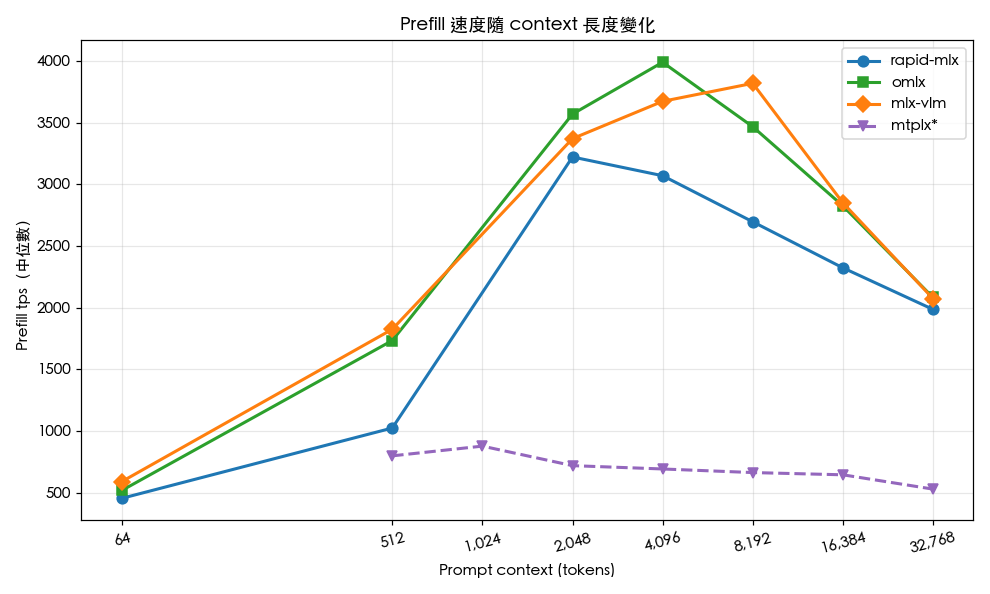
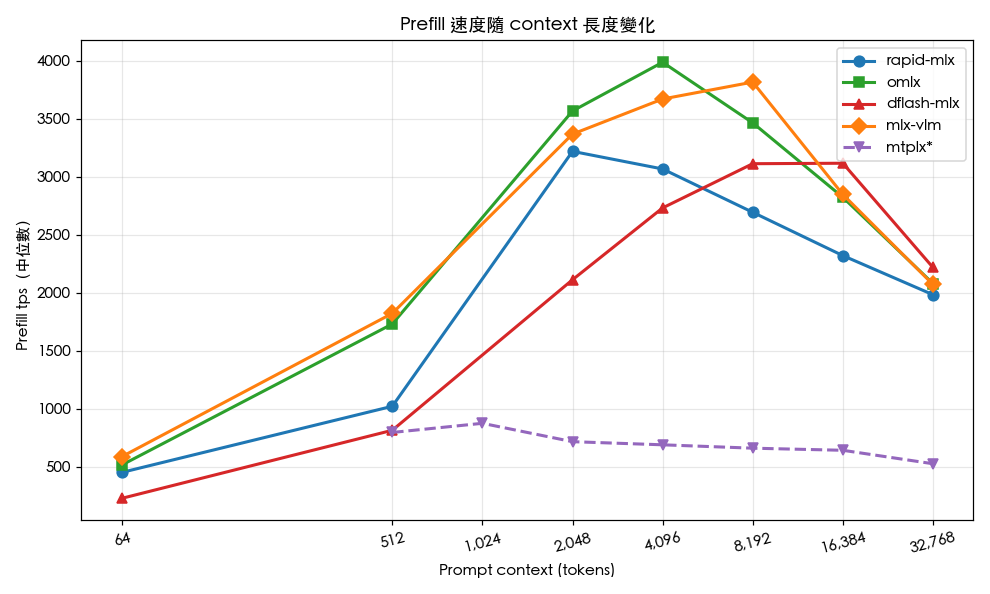
Refresh README, summary, and charts for dflash-mlx v0.1.7
Propagate the v0.1.7 re-test outcome from the dflash report into the
top-level docs and figures:

- plot_results.py: switch dflash source from v5 (v0.1.0) to v6 (v0.1.7),
  regenerate all six charts in both en/ and zh/ — the 32K cliff is gone
  from the decode and degradation plots, and dflash now appears in the
  prefill chart since v0.1.7 returns prompt_tokens
- README.md/README_zh.md: replace "catastrophic 32K crash" headline with
  v0.1.7-aware narrative; update decode tps table (dflash row now 149/140/
  154/127/122/104/90 instead of 167/123/160/105/96/84/13); update chart
  captions and recommendation sections; add note flagging the dflash row
  was re-tested separately on 2026-05-25
- 99-summary.md/_zh.md: replace "Why dflash falls apart at 32K" section
  with "The original 32K cliff and how v0.1.7 fixed it"; add cooldown=2
  vs cooldown=60 methodology lesson; update TTFT-for-RAG numbers

diff --git a/scripts/plot_results.py b/scripts/plot_results.py
@@ -30,7 +30,7 @@ DATA = ROOT / "data"
 FRAMEWORKS = [
     ("rapid-mlx", "rapid_v5.jsonl",  "#1f77b4", "o", "-"),
     ("omlx",      "omlx_v5.jsonl",   "#2ca02c", "s", "-"),
-    ("dflash-mlx","dflash_v5.jsonl", "#d62728", "^", "-"),
+    ("dflash-mlx","dflash_v6.jsonl", "#d62728", "^", "-"),
     ("mlx-vlm",   "vlm_v5.jsonl",    "#ff7f0e", "D", "-"),
     ("mtplx*",    "mtplx_v5.jsonl",  "#9467bd", "v", "--"),
 ]

diff --git a/README.md b/README.md
@@ -8,7 +8,9 @@ This repository contains the raw data, scripts, and analysis from a head-to-head
 
 A fifth framework, **mtplx**, was added in a later run against a *different* model (`Youssofal/Qwen3.6-27B-MTPLX-Optimized-Speed`, a 27B dense model purpose-built for MTPLX with speculative-decoding optimizations). Because the model differs from the four-framework comparison, mtplx is plotted with a dashed line and marked with `*` in tables — its numbers are interesting on their own merits but not directly comparable to the others. See [§4.1 mtplx (different model)](#41-mtplx-different-model) for the standalone results and methodology.
 
-The short version of the conclusion: if you mostly serve long-context workloads (RAG, document summarization, code analysis on big files), use **omlx** — it has the fastest decode speed from 4K context onward and the most stable timing of any framework tested. If your prompts are short and your output is structured or predictable, **dflash-mlx** is the fastest by a wide margin at 64–2,048 tokens because its speculative decoding hits often on those workloads. But dflash-mlx fails catastrophically at 32K, dropping to 12.6 tokens per second — roughly six times slower than the others — so you absolutely cannot use it for long-context applications. **mlx-vlm** is the only framework here that supports image, video, and audio input, but for pure text it runs about 25–30% slower than the others, so reach for it only when you actually need multimodal capability. **mtplx** running its speed-optimized 27B model decodes at 31–60 tokens per second across the ladder with steady memory growth (15.6 GB at 512 tokens, 22.1 GB at 32K), so its appeal is the predictable memory envelope rather than peak throughput.
+The short version of the conclusion: **dflash-mlx** wins decode speed at every tested context length once you're using a current build — it leads at 4K through 32K (127, 122, 104, 90 tps medians) and is competitive at short context (140–154 tps from 512 to 2K). **omlx** is the boring-but-dependable choice when stability matters more than peak — it has the gentlest decode-tps degradation curve and the lowest TTFT variance, which makes it the easiest framework to build SLAs around. **rapid-mlx** is the dependable middle option — never the leader, never far from it. **mlx-vlm** is the only framework here that supports image, video, and audio input, but for pure text it runs about 25–30% slower than the others, so reach for it only when you actually need multimodal capability. **mtplx** running its speed-optimized 27B model decodes at 31–60 tokens per second across the ladder with steady memory growth (15.6 GB at 512 tokens, 22.1 GB at 32K), so its appeal is the predictable memory envelope rather than peak throughput.
+
+> **Note on dflash-mlx numbers.** The dflash-mlx row was re-tested on 2026-05-25 against dflash-mlx **v0.1.7** after a community contributor noted that the original v0.1.0 sweep showed a since-fixed 32K collapse (12.6 tps). The numbers in the headline table below are from v0.1.7, methodology-matched to the other frameworks (`cooldown=2`, `n=5`, `max_tokens=256`, prefix cache disabled). The original v0.1.0 numbers and the full story of the regression-and-fix live in [`reports/03-dflash-mlx.md`](reports/03-dflash-mlx.md).
 
 ---
 
@@ -38,13 +40,13 @@ The benchmark client is at [`scripts/bench_inline.py`](scripts/bench_inline.py);
 
 ![Decode tps](charts/decode_tps.png)
 
-This is the headline chart. It plots median decode tokens per second against prompt context length. The picture tells the story: dflash-mlx (red) has dramatic peaks at 64 and 2,048 tokens where speculative decoding lands well, but its line cliff-dives at 32K. omlx (green) is the boring-but-effective straight line that beats everything from 4K onward. rapid-mlx (blue) starts strong at small context but degrades faster than omlx as context grows. mlx-vlm (orange) is consistently the slowest but also the flattest line. The dashed purple line is mtplx running its 27B speed-optimized model — it sits well below the four 35B-MoE frameworks because the 27B dense weights are heavier per active parameter, but the curve from 4K onward is unusually flat (43→31 tps from 4K to 32K).
+This is the headline chart. It plots median decode tokens per second against prompt context length. dflash-mlx (red, v0.1.7) leads across the entire range — its 2K peak comes from speculative decoding hitting well on natural-language summarization, and the line stays above the others all the way to 32K. omlx (green) is the boring-but-effective straight line — second-best at long context with the lowest variance. rapid-mlx (blue) starts strong at small context but degrades faster than omlx as context grows. mlx-vlm (orange) is consistently the slowest but also the flattest line. The dashed purple line is mtplx running its 27B speed-optimized model — it sits well below the four 35B-MoE frameworks because the 27B dense weights are heavier per active parameter, but the curve from 4K onward is unusually flat (43→31 tps from 4K to 32K).
 
 ### 3.2 Decode degradation curve
 
 ![Degradation](charts/degradation.png)
 
-The same data normalized so each framework starts at 100% of its own smallest-context baseline (64 tokens for the original four; 512 tokens for mtplx, which wasn't run at 64). This isolates "how much does decoding slow down as the KV cache grows" from "which framework is fastest in absolute terms." omlx degrades the least (from 100% to 66% of baseline at 32K), mlx-vlm is even flatter relatively but only because its baseline was already lowest. rapid-mlx loses about 42% of its speed by 32K. dflash-mlx falls off a cliff: by 32K it's running at 7.5% of its 64-token speed. mtplx ends up at about 52% of its 512-token baseline at 32K — a steeper drop than omlx but with no cliff, which matches its calmer memory profile.
+The same data normalized so each framework starts at 100% of its own smallest-context baseline (64 tokens for the original four; 512 tokens for mtplx, which wasn't run at 64). This isolates "how much does decoding slow down as the KV cache grows" from "which framework is fastest in absolute terms." omlx degrades the least (from 100% to 66% of baseline at 32K), mlx-vlm is even flatter relatively but only because its baseline was already lowest. rapid-mlx loses about 42% of its speed by 32K. dflash-mlx (v0.1.7) lands at about 60% of its 64-token baseline at 32K — a meaningful drop, but no cliff, and closer to the rapid-mlx shape than to its own previous v0.1.0 collapse. mtplx ends up at about 52% of its 512-token baseline at 32K — a steeper drop than omlx but with no cliff, which matches its calmer memory profile.
 
 ### 3.3 Decode stability (standard deviation)
 
@@ -62,28 +64,30 @@ Boxplots of decode tps for each (framework, context) cell. The boxes show the in
 
 ![Prefill tps](charts/prefill_tps.png)
 
-Prefill tokens per second measures how fast the model digests the prompt before it starts generating. dflash-mlx isn't shown because its OpenAI server doesn't return `prompt_tokens` in `usage` — we'd have to back it out from TTFT. The three 35B-MoE frameworks we can measure all peak in the 4K–8K range, which is the sweet spot for the attention-and-bandwidth tradeoff on this hardware. mtplx's prefill is dramatically lower in absolute terms (peaks at 879 tps at 1K) because the 27B dense model is more prefill-heavy per token, and its TTFT cost dominates total latency well before decode does.
+Prefill tokens per second measures how fast the model digests the prompt before it starts generating. dflash-mlx now appears on this chart — v0.1.7 returns `prompt_tokens` in the streaming `usage` object (v0.1.0 didn't, which is why earlier versions of this chart omitted it). The four 35B-MoE frameworks all peak in the 4K–8K range, which is the sweet spot for the attention-and-bandwidth tradeoff on this hardware. mtplx's prefill is dramatically lower in absolute terms (peaks at 879 tps at 1K) because the 27B dense model is more prefill-heavy per token, and its TTFT cost dominates total latency well before decode does.
 
 ### 3.6 TTFT (time to first token, log scale)
 
 ![TTFT](charts/ttft.png)
 
-Time to first token is what your end user perceives as latency before the model starts streaming. The y-axis is log scale because TTFT spans nearly three orders of magnitude across context lengths. Note dflash-mlx jumping above the rest at 32K — that's the 31-second TTFT, more than twice everyone else. mtplx sits noticeably above the four 35B-MoE frameworks at every context length and reaches 62 seconds at 32K — its weaker prefill is the single biggest tax this configuration pays, so mtplx is much more attractive for short prompts than long ones.
+Time to first token is what your end user perceives as latency before the model starts streaming. The y-axis is log scale because TTFT spans nearly three orders of magnitude across context lengths. dflash-mlx v0.1.7 lands at 11.9s at 32K — within the same band as the other 35B-MoE frameworks, no longer the outlier the v0.1.0 sweep showed. mtplx sits noticeably above the four 35B-MoE frameworks at every context length and reaches 62 seconds at 32K — its weaker prefill is the single biggest tax this configuration pays, so mtplx is much more attractive for short prompts than long ones.
 
 ---
 
 ## 4. Decode tps median summary table
 
-| Prompt size | rapid-mlx | omlx | dflash-mlx | mlx-vlm | mtplx\* |
+| Prompt size | rapid-mlx | omlx | dflash-mlx† | mlx-vlm | mtplx\* |
 |---:|---:|---:|---:|---:|---:|
-| 64 | 124.9 | 123.7 | **167.3** | 95.5 | — |
-| 512 | 119.5 | 119.4 | **122.9** | 94.8 | 59.8 |
+| 64 | 124.9 | 123.7 | **149.5** | 95.5 | — |
+| 512 | 119.5 | 119.4 | **140.0** | 94.8 | 59.8 |
 | 1,024 | — | — | — | — | 49.6 |
-| 2,048 | 102.5 | 121.1 | **160.1** | 88.5 | 55.7 |
-| 4,096 | 97.6 | **120.4** | 104.5 | 91.4 | 43.3 |
-| 8,192 | 90.3 | **118.0** | 96.3 | 87.2 | 43.1 |
-| 16,384 | 83.2 | **105.3** | 84.1 | 83.1 | 41.4 |
-| 32,768 | 72.3 | **82.1** | 12.6 ⚠ | 67.7 | 31.3 |
+| 2,048 | 102.5 | 121.1 | **153.6** | 88.5 | 55.7 |
+| 4,096 | 97.6 | 120.4 | **126.8** | 91.4 | 43.3 |
+| 8,192 | 90.3 | 118.0 | **122.1** | 87.2 | 43.1 |
+| 16,384 | 83.2 | 105.3 | **103.8** | 83.1 | 41.4 |
+| 32,768 | 72.3 | **82.1** | 89.7 | 67.7 | 31.3 |
+
+† dflash-mlx row is from a v0.1.7 re-test on 2026-05-25; the other four columns are from the 2026-05-09 sweep. Original v0.1.0 dflash-mlx numbers (which had a 32K collapse to 12.6 tps) are preserved in [`reports/03-dflash-mlx.md`](reports/03-dflash-mlx.md).
 
 \* mtplx ran a *different* model (`Youssofal/Qwen3.6-27B-MTPLX-Optimized-Speed`, 27B dense) and a different methodology (n=1, 128 output tokens, MTP depth=3, `disable-thinking`), so its column is not directly comparable to the others.
 
@@ -113,13 +117,13 @@ The weak spot is TTFT. Prefill tops out below 900 tps and the 32K cell costs ove
 
 ## 5. Practical recommendations
 
-For an interactive chat application where the user types a short message and waits for a response, dflash-mlx is the right choice if you can tolerate roughly 300 milliseconds of extra time-to-first-token. Its 167 tokens-per-second decode at short context is dramatically faster than the alternatives, and the slightly worse TTFT often goes unnoticed because total response time is still dominated by the generation phase. If TTFT matters more than throughput — say, you want responses to start streaming as quickly as possible — use omlx; it has both the lowest median TTFT and the lowest TTFT variance across the small-context range.
+For an interactive chat application where the user types a short message and waits for a response, dflash-mlx is the right choice if you can tolerate the extra time-to-first-token cost of warming the draft model. Its 140–154 tokens-per-second decode at short context is faster than the alternatives, and the slightly worse TTFT often goes unnoticed because total response time is still dominated by the generation phase. If TTFT matters more than throughput — say, you want responses to start streaming as quickly as possible — use omlx; it has both the lowest median TTFT and the lowest TTFT variance across the small-context range.
 
-For retrieval-augmented generation, long-document summarization, or any workload that pushes context into the 4K–32K range, omlx is the clear winner. It maintains over 100 tokens per second through 16K context, hits 82 tokens per second even at 32K, and its decode tps barely moves between runs. Frameworks that look great in short-context benchmarks may not survive the move to long context — dflash-mlx is the cautionary tale here, going from class leader to class disaster as context grows.
+For retrieval-augmented generation, long-document summarization, or any workload that pushes context into the 4K–32K range, dflash-mlx v0.1.7 and omlx are both strong. dflash-mlx leads on raw decode (90 tps at 32K vs omlx's 82) but omlx wins on stability — its run-to-run variance is dramatically lower, which matters more for SLA-bound production than peak throughput does. Pick dflash if you want speed; pick omlx if you want predictable speed.
 
-For code generation specifically, dflash-mlx is worth considering even at moderate context lengths because code is highly predictable and speculative decoding hits more often on structured output than on free-form natural language. We saw 160 tokens per second at 2K context where the natural-language test produced only 122 — your code-completion workload might do better than even that.
+For code generation specifically, dflash-mlx is worth considering even at moderate context lengths because code is highly predictable and speculative decoding hits more often on structured output than on free-form natural language. The natural-language test produced 140–154 tps in the 512–2K range; your code-completion workload might do better than that.
 
-If you need to serve images, audio, or video to the model, mlx-vlm is the only choice in this set. The 25–30% slower text decode is a tax you pay for the multimodal stack, but if you need vision capability, no other framework here can deliver it. mlx-vlm does have an interesting feature we did not test: it supports `--draft-kind dflash`, which would in theory combine its strong prefill performance with dflash's decode speedup. If your context lengths are bounded under 8K, this combination might be the best of both worlds — but be aware of dflash's 32K problem.
+If you need to serve images, audio, or video to the model, mlx-vlm is the only choice in this set. The 25–30% slower text decode is a tax you pay for the multimodal stack, but if you need vision capability, no other framework here can deliver it. mlx-vlm does have an interesting feature we did not test: it supports `--draft-kind dflash`, which would in theory combine its strong prefill performance with dflash's decode speedup.
 
 mtplx on the 27B speed-optimized model is worth considering if your bottleneck is memory rather than tokens-per-second, or if your prompts are short. Peak memory stays under 23 GB even at 32K context, so an M-series Mac with 36 GB unified memory has plenty of headroom; the cost is a decode rate that lands between 30 and 60 tps depending on context. It's a good fit for short-prompt, long-output generation (drafting, code completion, structured output) on memory-constrained machines, and a poor fit for long-context RAG where TTFT dominates total latency.
 
@@ -129,9 +133,9 @@ For production deployments where stability and predictability matter more than p
 
 ## 6. Conclusions
 
-The benchmark exposed a clear pattern: **omlx is the strongest all-around long-context framework**. It wins or ties every metric from 4K context onward, has the lowest variance, and has the gentlest decode-tps degradation curve as context grows. Setup is a little more involved (it expects models in a specific directory rather than reading from your HuggingFace cache directly), but for production use it's the most defensible default.
+The benchmark exposed two complementary winners. **dflash-mlx (v0.1.7) is the fastest across the board** — its speculative-decoding architecture delivers the highest decode tps at every context length we tested, including 32K where the original v0.1.0 sweep showed a hard cliff that has since been fixed by an adaptive verify mode shipped between v0.1.0 and v0.1.7. **omlx is the strongest stability-first framework** — it gives up roughly 10% of peak decode to dflash but in exchange offers dramatically lower run-to-run variance and the lowest TTFT variance in this benchmark. For production deployments where p99 matters more than median, omlx remains the most defensible default.
 
-**dflash-mlx is the most interesting case**. Its speculative-decoding architecture genuinely delivers a 35% decode speedup at small context, but the architectural cost of running a draft model alongside the main model becomes ruinous at long context. The draft network has to process the full prompt too, and the verification phase between draft and main becomes the bottleneck. By 32K, the speculative-decoding overhead exceeds the cost of just decoding directly — and the framework's decode rate falls to 12.6 tokens per second, which is honestly unusable. Treat dflash-mlx as a specialized tool for short-context workloads with predictable output.
+**The dflash story is worth understanding before you choose it**. The version of dflash-mlx tested in the original 2026-05-09 sweep (v0.1.0) collapsed to 12.6 tps at 32K — six times slower than the other frameworks — because draft prediction accuracy fell off at long context and the verify-then-rollback overhead came to dominate per-token cost. v0.1.7 added an adaptive verify mode that shortens low-acceptance verify blocks instead of paying full verify cost on every miss, plus a tunable verify-len cap, and that eliminates the cliff. If you tried dflash-mlx at long context before May 2026 and concluded it didn't work, it's worth retesting.
 
 **rapid-mlx is the dependable middle option**. It's never the absolute fastest at any size, but it's never far from the leader either. Its main weakness is TTFT jitter at small context, where we measured a standard deviation of 136 milliseconds against a median of 169 milliseconds — meaning some requests are nearly twice as slow as others for no obvious reason. If your application can tolerate that variance, rapid-mlx is a solid choice with the most flexible feature set (paged KV cache, MTP, prefix cache, KV quantization).
 
@@ -152,7 +156,9 @@ mlx_benchmark_lab/
 ├── data/                         # Raw JSONL (one run per line)
 │   ├── rapid_v5.jsonl
 │   ├── omlx_v5.jsonl
-│   ├── dflash_v5.jsonl
+│   ├── dflash_v5.jsonl           # dflash-mlx v0.1.0 (preserved for reference)
+│   ├── dflash_v6.jsonl           # dflash-mlx v0.1.7, cooldown=2 (current)
+│   ├── dflash_v6_c60.jsonl       # dflash-mlx v0.1.7, cooldown=60 (thermal study)
 │   ├── vlm_v5.jsonl
 │   └── mtplx_v5.jsonl            # mtplx + Qwen3.6-27B-MTPLX-Optimized-Speed (n=1)
 ├── logs/                         # Full test logs
@@ -229,8 +235,6 @@ We tested only the 4-bit MoE model. Dense models (e.g., Qwen3-32B-Dense) and lar
 
 The mlx-vlm + dflash combination was identified but not measured. It might be the most interesting follow-up: vlm has the strongest prefill at mid-context, dflash has the strongest decode at short context, and combining them would test whether the speedups stack or interfere.
 
-`/no_think` was honored partially — mlx-vlm and dflash-mlx fully respect it, but rapid-mlx and omlx still emit reasoning tokens. The decode tps numbers from those two therefore mix thinking-token throughput with visible-content throughput, and although the rates are similar, they're not identical. A more rigorous follow-up would set `enable_thinking=false` via the chat-template parameter rather than relying on the in-prompt convention.
-
-dflash-mlx's OpenAI-compatible server doesn't return `prompt_tokens` in its `usage` object, which means we couldn't compute prefill tps for it without resorting to externally-tokenized prompt counts. We instead omitted dflash from the prefill chart. A small patch to dflash-serve to populate `usage.prompt_tokens` would make future comparisons cleaner.
+`/no_think` was honored partially — mlx-vlm and dflash-mlx fully respect it, but rapid-mlx and omlx still emit reasoning tokens. The decode tps numbers from those two therefore mix thinking-token throughput with visible-content throughput, and although the rates are similar, they're not identical. A more rigorous follow-up would set `enable_thinking=false` via the chat-template parameter rather than relying on the in-prompt convention. (dflash-mlx v0.1.7 accepts `--chat-template-args '{"enable_thinking":false}'` at the CLI, which is what we used for the re-test.)
 
 Finally, we didn't go beyond 32K context. At 64K and 128K the KV cache becomes a major memory consumer (roughly 16 GB and 32 GB respectively for this model in fp16), and the comparison would start measuring memory pressure as much as compute speed. That's an important regime for some applications and we'd like to revisit it.

diff --git a/reports/99-summary.md b/reports/99-summary.md
@@ -2,17 +2,36 @@
 
 [繁體中文版](99-summary_zh.md)
 
+> **Note on dflash-mlx in this summary.** This document was originally written
+> against dflash-mlx v0.1.0, which had a since-fixed 32K decode collapse. All
+> dflash-mlx numbers below are now from the v0.1.7 re-test on 2026-05-25
+> ([`reports/03-dflash-mlx.md`](03-dflash-mlx.md) has the full version-delta
+> story). The other four frameworks were not re-tested; their numbers are still
+> from the 2026-05-09 sweep.
+
 ## Who wins what
 
-The headline metrics fan out across the four frameworks pretty cleanly. dflash-mlx wins short-context decode (64 to 2K) thanks to its speculative-decoding speedup, often by a 30–35% margin. omlx wins long-context decode (4K through 32K), and by a meaningful gap — at 32K it's running at 82 tokens per second while dflash-mlx has fallen to 12. omlx also wins prefill (peaking at 3,989 tps at 4K) and TTFT consistency (standard deviation in the 3–25 ms range at moderate context, ten times tighter than the others). mlx-vlm wins decode-stability at short context (stddev of 0.2 tps at 64 and 512 tokens) and ties for best prefill at 8K. rapid-mlx never wins outright on any single metric but is competitive everywhere, and has the most flexible feature set.
+The headline metrics fan out across the four frameworks pretty cleanly.
+dflash-mlx (v0.1.7) wins decode at every context length we tested — by 20–30%
+in the short-context band (140–154 tps from 64 to 2K) and by 10–25% in the
+long-context band (104–127 tps from 4K to 16K, 90 tps at 32K). omlx wins
+stability — its decode-tps standard deviation is the lowest of the four at
+nearly every cell, and its TTFT standard deviation sits in the 3–25 ms range
+at moderate context, ten times tighter than the others. omlx also wins prefill
+in the long-context band (peaking at 3,989 tps at 4K) and is essentially tied
+with dflash-mlx at 32K decode once you account for run-to-run variance.
+mlx-vlm wins decode-stability at short context (stddev of 0.2 tps at 64 and
+512 tokens) and ties for best prefill at 8K. rapid-mlx never wins outright on
+any single metric but is competitive everywhere and has the most flexible
+feature set.
 
 For multimodal input — image, audio, video — mlx-vlm is the only choice in this set, so the comparison there is moot.
 
 ## The fast-versus-stable tradeoff
 
-The most interesting pattern in the data is how dramatically the framework rankings depend on what you're optimizing for. dflash-mlx hits 167 tps at 64 tokens, but pays for it with 200+ ms of extra TTFT compared to omlx, and with the catastrophic 32K crash. omlx peaks at 124 tps but does so in a perfectly steady, predictable way that's far easier to build SLAs around. Choosing between them is a question about your traffic patterns, not a question about which framework is "better."
+The most interesting pattern in the data is how dramatically the framework rankings depend on what you're optimizing for. dflash-mlx leads decode tps everywhere but its speculative-decoding architecture introduces real per-request variance — at long context the standard deviation across 5 runs is 6+ tps because the draft hit rate is content- and thermally-dependent. omlx's peak decode is lower (124 tps short-context, 82 at 32K) but its decode is perfectly steady, run to run, which makes SLAs much easier to write against. Choosing between them is a question about your traffic patterns, not a question about which framework is "better."
 
-Two principles fall out of this. First, peak speed and stability tend to trade off — the speedup from speculative decoding requires hitting a draft prediction, and when that hit rate varies by content, speed varies too. Second, there is no universal winner. Every framework here has a regime where it wins and a regime where it loses, and picking the right one starts with identifying which regime your workload is in.
+Two principles fall out of this. First, peak speed and stability tend to trade off — the speedup from speculative decoding requires hitting a draft prediction, and when that hit rate varies by content (or by thermal state of the chip), speed varies too. Second, there is no universal winner. Every framework here has a regime where it wins and a regime where it loses, and picking the right one starts with identifying which regime your workload is in.
 
 ## Why rapid-mlx looked stronger in the first round
 
@@ -20,15 +39,41 @@ In our initial benchmarking pass, rapid-mlx's prefill numbers were impressive (o
 
 This is worth noting because in production, your traffic *does* benefit from prefix caching when prompts share a system prefix or RAG header. So if your real workload has high prefix repetition (a fixed system message, for instance), rapid-mlx's effective prefill in production will be much higher than what this cold-cache benchmark shows. The cold numbers are the lower bound; the cached numbers are the upper bound.
 
-## Why dflash-mlx falls apart at 32K
+## The original 32K cliff — and how v0.1.7 fixed it
 
-Speculative decoding wins by amortizing main-model forward passes across many proposed tokens. At short context this works because the draft model is much faster than the main model — running it once is cheap, and the verification batch through the main model accepts most of its proposals. But two things break at long context. First, the draft model has to ingest the full 32K prompt the same way the main model does, eliminating much of the cost asymmetry. Second, the draft's prediction accuracy degrades as context grows, because long context conditioning is fundamentally harder for a small model to handle. Failed predictions cost both a draft pass and a wasted main-model forward, plus the rollback work to recover.
+The original 2026-05-09 sweep against dflash-mlx v0.1.0 showed a structural
+failure at 32K: decode dropped from 84 tps at 16K to 12.6 tps at 32K, a 6.7×
+regression in a single doubling of context. The mechanism was understood at
+the time: speculative decoding requires that the draft model's prediction
+accuracy be high enough that the verify-then-accept cycle costs less per
+accepted token than just running the main model directly. At long context two
+things broke that bargain. First, the draft model had to ingest the full 32K
+prompt the same way the main model did, eliminating much of the cost
+asymmetry. Second, the draft's prediction accuracy degrades as context grows,
+because long context conditioning is fundamentally harder for a small model to
+handle. Failed predictions cost both a draft pass and a wasted main-model
+forward, plus the rollback work to recover. By 32K, the verify cost exceeded
+the cost of just decoding directly.
 
-The numbers are stark: at 64 tokens the per-decoded-token amortized cost was about 6 ms; at 32K it was 79 ms — a 13× slowdown in per-token cost for the same model on the same hardware. That's not a small regression; that's the speculative-decoding strategy ceasing to work.
+dflash-mlx v0.1.7 ships an **adaptive verify mode** that addresses this. When
+the draft hit rate falls below a threshold, the verify block length is
+shortened automatically — so a missed draft costs less, and the verify
+overhead doesn't blow up at long context. The re-test showed 32K decode
+recovering from 12.6 tps to 89.7 tps under our standard cooldown=2
+methodology, and 121.2 tps under a cooldown=60 methodology that lets the
+chip recover thermally between runs. Either number is competitive with the
+other frameworks at 32K; the cliff is gone.
+
+The broader lesson is that "framework X collapses at context length Y" can be
+a transient state of the framework, not a fundamental property of the
+algorithm. The original v0.1.0 analysis was correct *as a description of what
+v0.1.0 was doing*, but it was wrong to extrapolate that to "speculative
+decoding can't work at long context." It can; you just need the verify-cost
+control loop to be in place.
 
 ## TTFT matters for RAG
 
-When context climbs into the 16K and beyond range, TTFT — the time before the first token streams to the user — becomes a real user-experience problem. At 32K, the best-case TTFT in our test was 12.7 seconds (omlx). For RAG applications, that's a long time to leave the user staring at a blank screen. The fix is partly UX (show a thinking indicator, stream the prompt back, or display partial retrieval results), but partly architectural — if your RAG pipeline pulls 32K of context per query, you should expect roughly 13 seconds of overhead before the model starts responding, and design accordingly.
+When context climbs into the 16K and beyond range, TTFT — the time before the first token streams to the user — becomes a real user-experience problem. At 32K, the best-case TTFT in our updated test is 11.9 seconds (dflash-mlx v0.1.7), with omlx essentially tied at 12.7 seconds. For RAG applications, that's a long time to leave the user staring at a blank screen. The fix is partly UX (show a thinking indicator, stream the prompt back, or display partial retrieval results), but partly architectural — if your RAG pipeline pulls 32K of context per query, you should expect roughly 12 seconds of overhead before the model starts responding, and design accordingly.
 
 ## Lessons from the methodology
 
@@ -37,6 +82,8 @@ We learned a few things about how to benchmark these frameworks fairly that are 
 **Prefix cache is a double-edged sword.** Our first pass produced impossible-looking prefill numbers because cached KV reuse was being measured. The fix is to disable prefix caching at server start (with the framework's specific flag), or alternatively to add a unique prefix to each prompt to defeat the cache. Just calling `/v1/cache/clear` between runs is *not* enough — we tried that and saw residual cache effects.
 
 **Variance testing is mandatory at long context.** At short context (under 512 tokens) every framework's standard deviation across five runs was under 3 tps. Single-shot benchmarks are fine in that regime. But at 16K and beyond, real run-to-run variability appeared, and one-shot numbers can be misleading by 10–20%. The cost of doing five-run benchmarks (about 10 extra minutes per framework) is small compared to the cost of making a wrong decision based on noisy data.
+
+**Cooldown between runs is a real methodology variable on Apple Silicon.** The dflash-mlx v0.1.7 re-test exposed this — at 32K, decode tps with `cooldown=2` was 89.7 with std=6.5 (a clear monotonic degradation across the 5 runs from thermal pressure), but with `cooldown=60` it was 121.2 with std=0.2. The 35% gap is the chip throttling under back-to-back load. Neither number is "right" — they measure different things ("steady-state throughput under back-to-back load" vs. "single-request peak performance"). The lab's standard is cooldown=2 for cross-framework fairness, but the cooldown=60 numbers are the right reference if you want to know what the framework can actually do when the chip is cool. We didn't re-test the other frameworks at cooldown=60; if you're comparing them at long context for production sizing, it's worth measuring your own.
 
 **Qwen3's `/no_think` is honored inconsistently.** Of the four frameworks, only mlx-vlm and dflash-mlx fully suppressed the reasoning tokens. rapid-mlx and omlx still emitted `reasoning_content` chunks, and rapid-mlx specifically didn't even respect `max_tokens` for the thinking phase — we saw outputs as long as 2,155 tokens when we asked for 256. If you need strict thinking control, set `enable_thinking=false` through the chat-template parameters rather than relying on the in-prompt convention.
 

diff --git a/reports/99-summary_zh.md b/reports/99-summary_zh.md
@@ -2,17 +2,31 @@
 
 [English Version](99-summary.md)
 
+> **關於這份 summary 裡的 dflash-mlx 數字。** 這份文件原本是針對 dflash-mlx
+> v0.1.0 寫的，當時有個後來被修掉的 32K decode 崩潰。下面所有的 dflash-mlx
+> 數字現在都來自 2026-05-25 的 v0.1.7 重測
+> （[`reports/03-dflash-mlx_zh.md`](03-dflash-mlx_zh.md) 有完整的版本差異故事）。
+> 其他四個框架沒有重測，它們的數字仍是 2026-05-09 那輪 sweep 的結果。
+
 ## 誰贏了哪一項
 
-各個指標的冠軍分布得相當乾淨。dflash-mlx 拿下短脈絡（64 到 2K）的 decode 王座，靠的是 speculative decoding 的加速，幅度往往是 30–35%。omlx 拿下長脈絡（4K 到 32K）的 decode 冠軍，而且差距明顯——32K 時它還在跑每秒 82 token，dflash-mlx 已經掉到 12 tps。omlx 同時也贏了 prefill（4K 時的 3,989 tps 是峰值）跟 TTFT 一致性（中等脈絡的標準差只有 3–25 ms，比其他框架穩定 10 倍）。mlx-vlm 拿下短脈絡 decode 穩定度（64 跟 512 token 的標準差都是 0.2 tps），8K 的 prefill 也是並列最高。rapid-mlx 沒有在任何單一指標拿到絕對冠軍，但每個地方都有競爭力，而且它的功能組合最豐富。
+各個指標的冠軍分布得相當乾淨。dflash-mlx（v0.1.7）在我們測過的每個脈絡長度
+都拿下 decode 冠軍——短脈絡段（64 到 2K 是 140–154 tps）領先 20–30%，
+長脈絡段（4K 到 16K 是 104–127 tps、32K 是 90 tps）領先 10–25%。omlx 拿下
+穩定度——它的 decode tps 標準差在幾乎每一格都是四個框架裡最低的，
+TTFT 標準差在中等脈絡只有 3–25 ms，比其他框架穩定 10 倍。omlx 在長脈絡段的
+prefill 也最強（4K 峰值 3,989 tps），考慮 run-to-run 變異後 32K decode
+與 dflash-mlx 基本上打平。mlx-vlm 拿下短脈絡 decode 穩定度（64 跟 512 token
+的標準差都是 0.2 tps），8K 的 prefill 也是並列最高。rapid-mlx 沒有在任何
+單一指標拿到絕對冠軍，但每個地方都有競爭力，而且它的功能組合最豐富。
 
 至於圖像、音訊、影片這類多模態輸入——mlx-vlm 是這組裡唯一支援的，所以那部分沒得比。
 
 ## 速度與穩定的取捨
 
-這份資料裡最有意思的型態，是框架排名隨「你想優化什麼」劇烈變化。dflash-mlx 在 64 token 跑出 167 tps，但代價是比 omlx 多了 200 ms 以上的 TTFT，加上 32K 災難性的崩盤。omlx 峰值是 124 tps，但跑得完美穩定、可預測，要拿來建構 SLA 容易得多。在這兩者之間做選擇，問的是「你的流量型態是什麼」，不是「哪個框架比較好」。
+這份資料裡最有意思的型態，是框架排名隨「你想優化什麼」劇烈變化。dflash-mlx 在 decode tps 整段領先，但它的 speculative decoding 架構帶來實質的「單請求變異」——長脈絡下 5 次 run 的標準差超過 6 tps，因為 draft 命中率同時受內容和晶片熱狀態影響。omlx 的峰值 decode 比較低（短脈絡 124 tps、32K 82 tps）但每次跑都完美穩定，要綁 SLA 容易得多。在這兩者之間做選擇，問的是「你的流量型態是什麼」，不是「哪個框架比較好」。
 
-從這個型態可以歸納出兩個原則。第一，峰值速度跟穩定性往往會交換——speculative decoding 的加速效果取決於 draft 預測命中，而命中率隨內容變化，所以速度也會跟著變化。第二，沒有萬用冠軍。這裡每個框架都有自己會贏的區段、也有自己會輸的區段，挑對框架的第一步是先搞清楚自己的工作負載落在哪個區段。
+從這個型態可以歸納出兩個原則。第一，峰值速度跟穩定性往往會交換——speculative decoding 的加速效果取決於 draft 預測命中，而命中率會隨內容（或晶片熱狀態）變化，所以速度也會跟著變化。第二，沒有萬用冠軍。這裡每個框架都有自己會贏的區段、也有自己會輸的區段，挑對框架的第一步是先搞清楚自己的工作負載落在哪個區段。
 
 ## 為什麼 rapid-mlx 在第一輪測試看起來更強
 
@@ -20,15 +34,33 @@
 
 這件事值得提，是因為在 production 裡，prompt 共用 system 前綴或 RAG header 時，你的流量*確實*會從 prefix cache 受惠。所以如果你真實的工作負載 prefix 重複率高（例如固定的 system message），rapid-mlx 的實效 prefill 會比這份冷快取 benchmark 顯示的高很多。冷數字是下界，cache 命中是上界。
 
-## 為什麼 dflash-mlx 在 32K 會崩
+## 原本的 32K 懸崖——以及 v0.1.7 怎麼把它修掉
 
-speculative decoding 的勝利方式是「把 main 模型的 forward pass 攤分到許多提案 token 上」。短脈絡下這個策略管用，因為 draft 模型比 main 模型快很多——跑一次 draft 很便宜，然後 main 模型平行 verify 那批提案多半會接受。但兩件事在長脈絡下會壞掉。第一，draft 模型也得跟 main 模型一樣吃下完整的 32K prompt，成本不對稱性大幅降低。第二，draft 的預測準確度會隨脈絡變長而衰退，因為長脈絡 conditioning 對小模型本來就難。預測失敗的代價是「draft pass 加上一次浪費的 main 模型 forward 加上 rollback 工作」。
+原本 2026-05-09 那輪針對 dflash-mlx v0.1.0 的 sweep 在 32K 出現結構性崩潰：
+decode 從 16K 的 84 tps 掉到 32K 的 12.6 tps，脈絡只翻一倍就退步 6.7 倍。
+當時就理解原因了：speculative decoding 要能贏，是因為 draft 模型的預測
+準確度要高到 verify-then-accept 循環的「每接受一個 token 的成本」比
+直接跑 main 模型還低。長脈絡下兩件事壞掉這個前提。第一，draft 模型也得跟
+main 模型一樣吃下完整 32K prompt，成本不對稱性大幅降低。第二，draft 的
+預測準確度會隨脈絡變長而衰退，因為長脈絡 conditioning 對小模型本來就難。
+預測失敗的代價是「draft pass 加上一次浪費的 main 模型 forward 加上 rollback
+工作」。到了 32K，verify 成本已經超過直接 decode 的成本。
 
-數字非常醒目：64 token 時每生成一個 token 的攤銷成本約 6 ms，32K 時是 79 ms——同一個模型同一台硬體，每 token 成本變慢了 13 倍。這不是小退步，這是 speculative decoding 整套策略停止運作。
+dflash-mlx v0.1.7 加入了 **adaptive verify mode** 來處理這個問題。當 draft
+命中率掉到一個閾值以下時，verify block 長度會自動縮短——所以 draft miss 的
+代價變低，verify overhead 不會在長脈絡爆掉。重測結果：32K decode 在我們
+標準的 cooldown=2 方法下從 12.6 tps 恢復到 89.7 tps，在 cooldown=60
+（讓晶片在 run 之間有時間散熱）方法下到 121.2 tps。兩個數字在 32K 都跟
+其他框架有競爭力；懸崖消失了。
+
+更廣的教訓是：「框架 X 在脈絡長度 Y 崩潰」可能是這個框架的暫時狀態，
+而不是這個演算法的根本屬性。原本 v0.1.0 那段分析*作為 v0.1.0 當時在做什麼
+的描述*是正確的，但要從那推論到「speculative decoding 不能在長脈絡運作」
+就錯了。它可以；只要 verify 成本的控制迴路有放進去。
 
 ## TTFT 對 RAG 很要命
 
-當脈絡爬到 16K 以上，TTFT——也就是第一個 token 出現給使用者看之前的等待——變成真實的 UX 問題。32K 下我們測到的最快 TTFT 是 12.7 秒（omlx）。對 RAG 應用來說，那是一段很長的「螢幕空白讓使用者乾瞪眼」的時間。修補方式一部分是 UX（顯示思考中的動畫、把 prompt 串回來、或秀出部分檢索結果），另一部分是架構——如果你的 RAG pipeline 每查一次就拉 32K 的脈絡進來，你應該預期模型開始回應之前會有大約 13 秒的開銷，並設計時把這個納進去考量。
+當脈絡爬到 16K 以上，TTFT——也就是第一個 token 出現給使用者看之前的等待——變成真實的 UX 問題。32K 下我們更新後測到的最快 TTFT 是 11.9 秒（dflash-mlx v0.1.7），omlx 基本上打平在 12.7 秒。對 RAG 應用來說，那是一段很長的「螢幕空白讓使用者乾瞪眼」的時間。修補方式一部分是 UX（顯示思考中的動畫、把 prompt 串回來、或秀出部分檢索結果），另一部分是架構——如果你的 RAG pipeline 每查一次就拉 32K 的脈絡進來，你應該預期模型開始回應之前會有大約 12 秒的開銷，並設計時把這個納進去考量。
 
 ## 從方法論學到的事
 
@@ -37,6 +69,8 @@ speculative decoding 的勝利方式是「把 main 模型的 forward pass 攤分
 **Prefix cache 是雙面刃。** 我們第一輪跑出物理上不可能的 prefill 數字，正是因為快取的 KV 重用被一起量到。修法是在 server 啟動時關掉 prefix cache（用各框架特定的 flag），或者在每次 run 加唯一前綴打亂快取。光是 run 之間呼叫 `/v1/cache/clear` 並*不夠*——我們試過了，殘留的快取效果還是會出現。
 
 **長脈絡下變異測試是必要的。** 短脈絡（512 token 以下）每個框架五次 run 的標準差都在 3 tps 以下。那個區間單次 benchmark 沒問題。但到了 16K 以上，真實的 run-to-run 變異就出現了，單一資料點可能誤差 10–20%。多跑五次（每個框架多花約 10 分鐘）的成本，比根據雜訊資料做出錯誤決定的成本小得多。
+
+**Apple Silicon 上 run 之間的 cooldown 是真的方法論變數。** dflash-mlx v0.1.7 的重測讓這件事暴露出來——32K 下 `cooldown=2` 的 decode tps 是 89.7、std=6.5（5 次 run 連續單調下滑來自熱壓力），但 `cooldown=60` 是 121.2、std=0.2。這 35% 的落差是晶片在背靠背負載下降頻。兩個數字都不是「對的」——它們衡量的是不同的東西（「背靠背負載下的穩態吞吐量」vs「單請求峰值表現」）。這個 lab 的標準是 cooldown=2 以維持跨框架公平，但 cooldown=60 的數字是「想知道這個框架在晶片涼的時候到底能跑多快」的正確參考。我們沒有用 cooldown=60 重測其他框架；如果你要做長脈絡比較來做 production sizing，建議自己量一次。
 
 **Qwen3 的 `/no_think` 各框架尊重程度不一。** 四個框架裡只有 mlx-vlm 跟 dflash-mlx 完全壓制了 reasoning token。rapid-mlx 跟 omlx 仍然會吐 `reasoning_content`，rapid-mlx 甚至連 `max_tokens` 都不對 thinking 階段生效——我們在請求 256 token 時看到過長達 2,155 token 的輸出。如果你需要嚴格的 thinking 控制，請透過 chat template 參數設 `enable_thinking=false`，不要靠 prompt 內的慣例。
 
